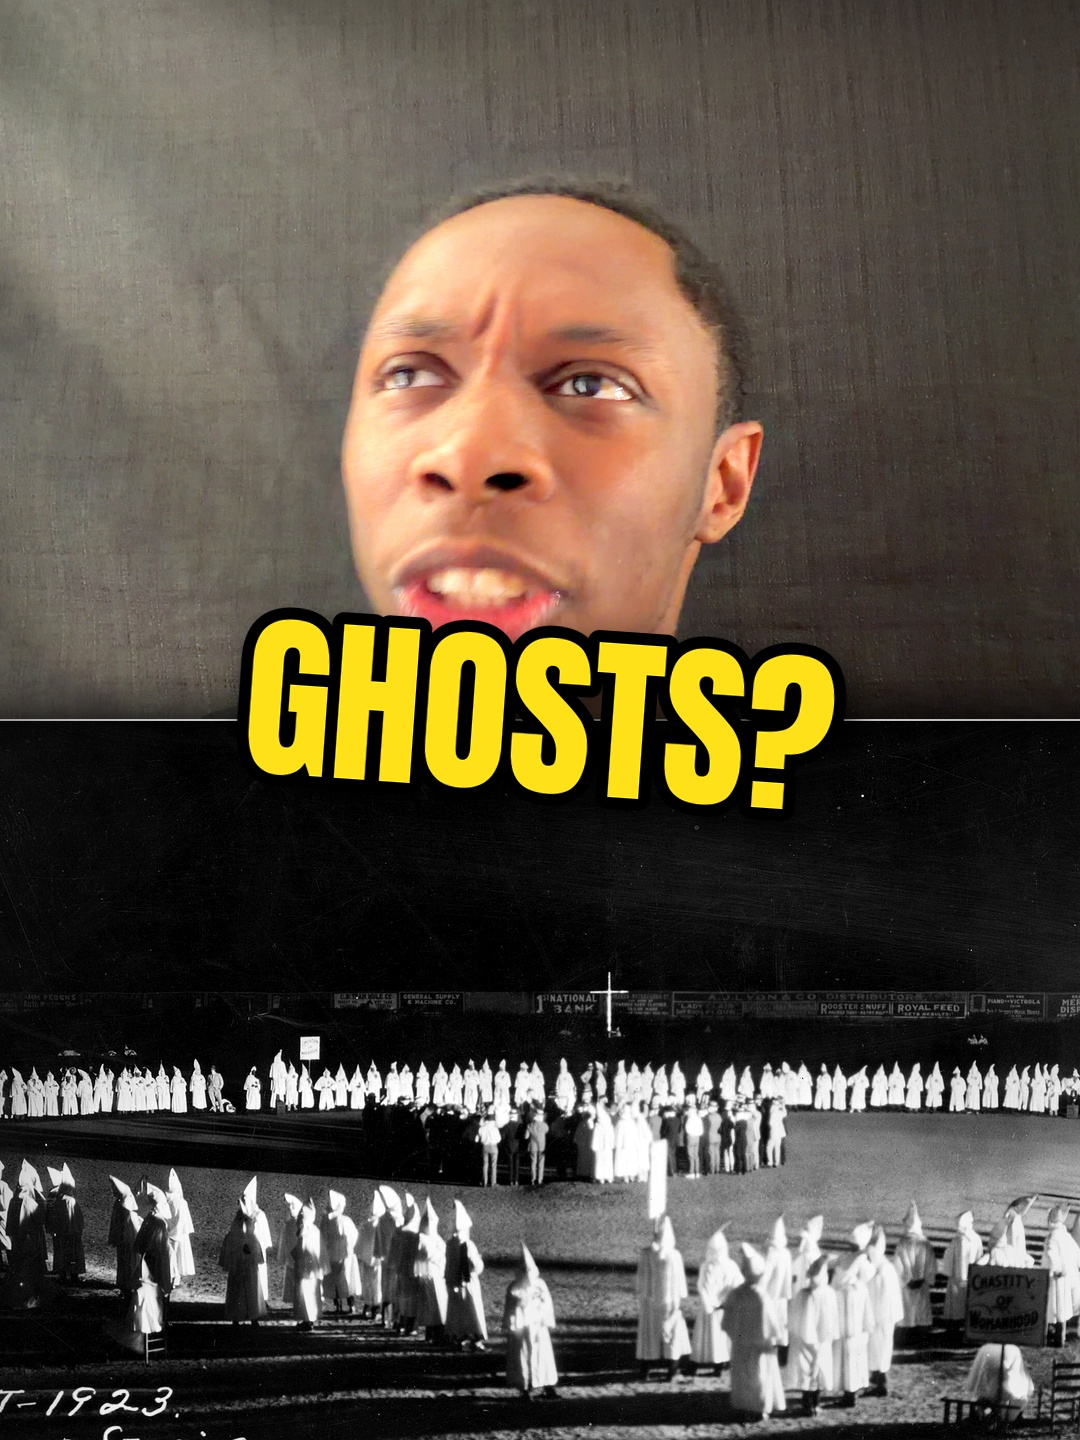
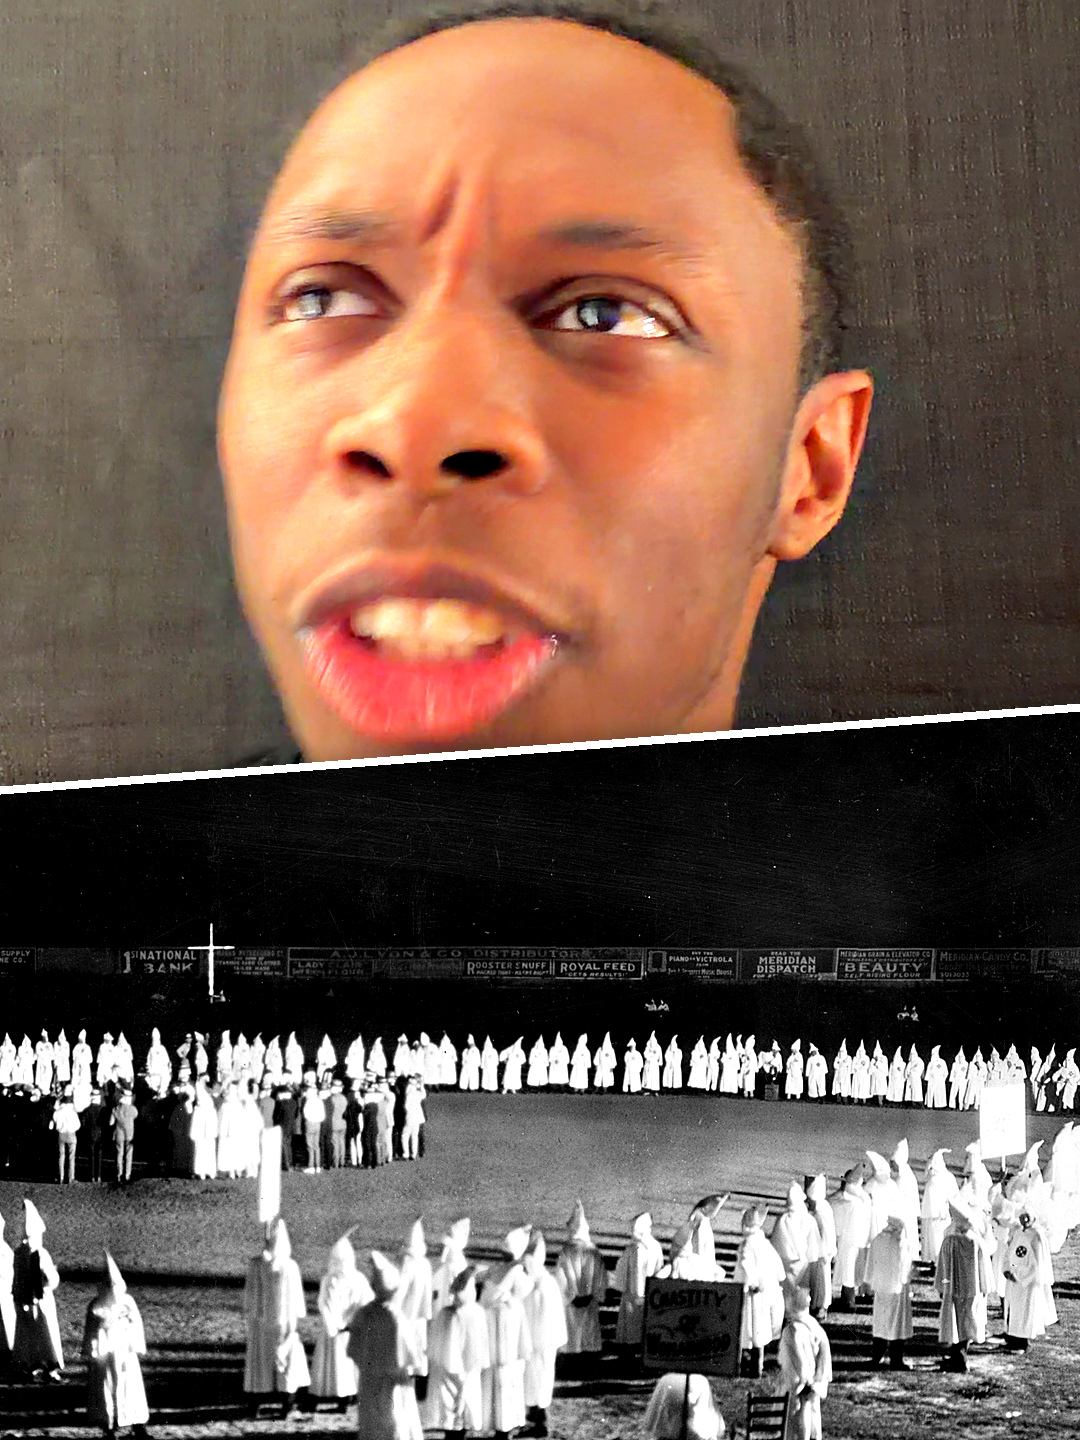
High-effort thumbnails: thumb.py (diagonal two-photo style), redo Klan, Godwin, Tebogo/Lyles in 3:4 and 9:16
Claude-Session: https://claude.ai/code/session_01FEcSZyiLRg3t9cRq9AWGTK

diff --git a/editor/thumb.py b/editor/thumb.py
@@ -1,0 +1,82 @@
+"""High-effort TikTok thumbnails in the owner's reference style (see CLAUDE.md, step 8).
+
+usage: python3 thumb.py spec.json
+
+Style (from the owner's examples): no text; one or two REAL dramatic moments, big in frame; two photos stacked
+with a clean diagonal white line; punchy, vivid, crisp grade; every source at native resolution (never enlarged
+past ~1.1x). Writes both a 3:4 (1080x1440, profile-grid cover) and a 9:16 (1080x1920, upload cover) version.
+
+spec:
+  out:    "exports/thumbnails/<name>"   (writes <name>_thumb.jpg = 3:4 and <name>_thumb_916.jpg = 9:16)
+  panels: [ {src, cx, cy, zoom, bw?}, {src, cx, cy, zoom} ]   one or two panels, top then bottom.
+          cx, cy = the point (in source pixels) to centre in the panel; zoom = scale applied to the source
+          (<= 1 keeps it sharp; a warning prints above 1.1).
+  split:  fraction of the height where the diagonal line crosses the centre (default 0.5)
+  tilt:   pixels the line drops from left to right (default -110: rises to the right, like the reference)
+  grade:  {contrast, color, sharp, warmth}  defaults 1.12, 1.22, 1.0, 0.04
+"""
+import json, sys
+from PIL import Image, ImageDraw, ImageEnhance, ImageFilter, ImageChops
+
+
+def grade(im, g, bw=False):
+    im = im.convert('RGB')
+    if bw:
+        im = ImageEnhance.Contrast(im.convert('L').convert('RGB')).enhance(g.get('contrast', 1.12) + .12)
+    else:
+        im = ImageEnhance.Contrast(im).enhance(g.get('contrast', 1.12))
+        im = ImageEnhance.Color(im).enhance(g.get('color', 1.22))
+        w = g.get('warmth', .04)
+        if w:
+            r, gg, b = im.split()
+            r = r.point(lambda v: min(255, v * (1 + w))); b = b.point(lambda v: v * (1 - w * .6))
+            im = Image.merge('RGB', (r, gg, b))
+    # clarity: local-contrast boost (large-radius unsharp), then fine sharpening
+    im = im.filter(ImageFilter.UnsharpMask(radius=40, percent=16, threshold=0))
+    im = im.filter(ImageFilter.UnsharpMask(radius=1.6, percent=int(60 * g.get('sharp', 1.0)), threshold=2))
+    return im
+
+
+def panel(p, W, H, g):
+    src = Image.open(p['src'])
+    z = float(p.get('zoom', 1.0))
+    if z > 1.1: print(f"WARNING: {p['src']} enlarged {z:.2f}x (soft)")
+    src = src.convert('RGB').resize((round(src.width * z), round(src.height * z)), Image.LANCZOS)
+    cx, cy = p['cx'] * z, p['cy'] * z
+    x = int(min(max(cx - W / 2, 0), src.width - W)); y = int(min(max(cy - H / 2, 0), src.height - H))
+    if src.width < W or src.height < H: sys.exit(f"{p['src']}: zoom {z} too small to cover {W}x{H}")
+    return grade(src.crop((x, y, x + W, y + H)), g, p.get('bw'))
+
+
+def build(spec, W, H):
+    g = spec.get('grade', {})
+    P = spec['panels']
+    if len(P) == 1:
+        return panel(P[0], W, H, g)
+    split = spec.get('split', .5) * H; tilt = spec.get('tilt', -110) * H / 1920
+    yl, yr = split - tilt / 2, split + tilt / 2                       # line endpoints at left / right edge
+    top = panel(P[0], W, int(max(yl, yr)) + 40, g)
+    bh = H - int(min(yl, yr)) + 40
+    bot = panel(P[1], W, bh, g)
+    c = Image.new('RGB', (W, H)); c.paste(top, (0, 0))
+    m = Image.new('L', (W, H), 0); ImageDraw.Draw(m).polygon([(0, yl), (W, yr), (W, H), (0, H)], fill=255)
+    m = m.filter(ImageFilter.GaussianBlur(.8))
+    bl = Image.new('RGB', (W, H)); bl.paste(bot, (0, H - bh))
+    c = Image.composite(bl, c, m)
+    # soft shadow under the line, then the crisp white line itself
+    sh = Image.new('L', (W, H), 0); ImageDraw.Draw(sh).line([(0, yl + 10), (W, yr + 10)], fill=150, width=26)
+    c = Image.composite(Image.new('RGB', (W, H)), c, sh.filter(ImageFilter.GaussianBlur(14)))
+    d = ImageDraw.Draw(c); d.line([(0, yl), (W, yr)], fill=(255, 255, 255), width=round(9 * W / 1080))
+    return c
+
+
+def main(path):
+    spec = json.load(open(path))
+    for (W, H), suffix in (((1080, 1440), '_thumb.jpg'), ((1080, 1920), '_thumb_916.jpg')):
+        out = spec['out'] + suffix
+        build(spec, W, H).save(out, quality=96, subsampling=0)
+        print('wrote', out)
+
+
+if __name__ == '__main__':
+    main(sys.argv[1])
